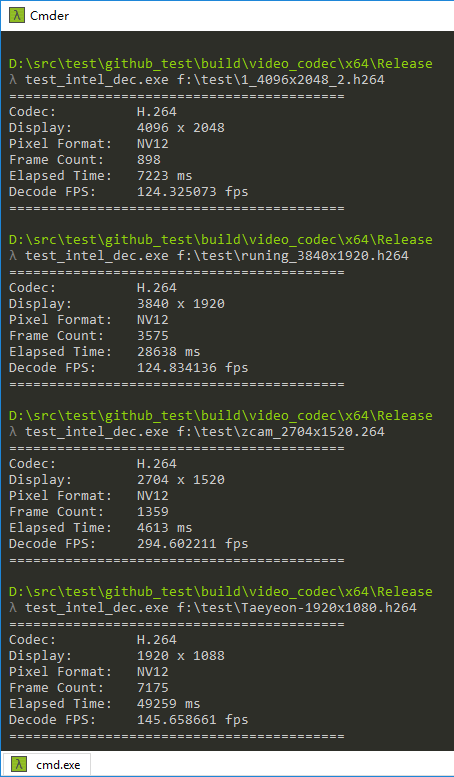
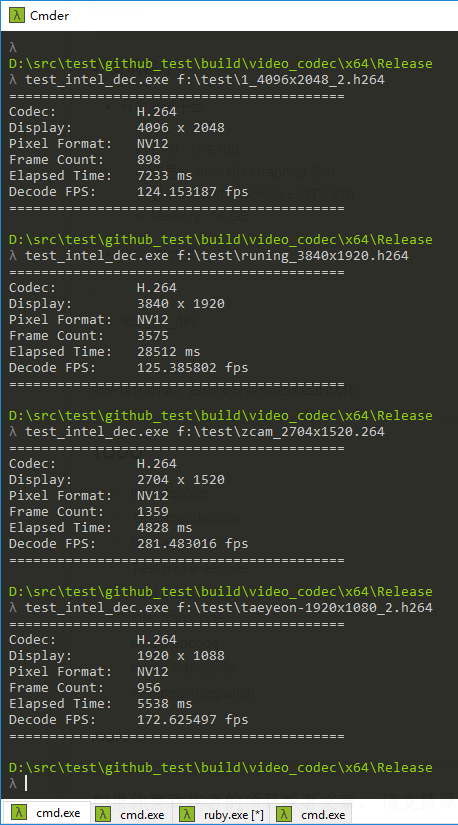
update intel test result

Changed region(s): [[0.0, 0.0, 0.9559, 1.0], [0.6167, 0.8649, 0.7401, 0.8958]]

diff --git a/_posts/2017-06-16-video-codec.md b/_posts/2017-06-16-video-codec.md
@@ -150,11 +150,18 @@ jm_nvdec_deinit()
 
 
 #### 4. 测试程序
-OS  : 	Win10
-CPU : 	i7-6700 
-集显：	Intel HD Graphics 530
-显卡：	Nvidia GeForce GTX 970
-Memory: 16 GB
+- 开发测试平台
+	- OS  : 	Win10
+	- CPU : 	i7-6700 
+	- 集显：	Intel HD Graphics 530
+	- 显卡：	Nvidia GeForce GTX 970
+	- Memory: 16 GB
+
+
+
+
+
+
 
 - test_intel_dec
 
@@ -170,11 +177,11 @@ Memory: 16 GB
 
 
 
-更多测试，可以同时解码多路视频。
+更多优化测试，目前没有实现更深层的优化。
 
 ---
 
-### TODO
+### TODO List
 
 - [x] Intel decode
 - [x] Test intel decode
